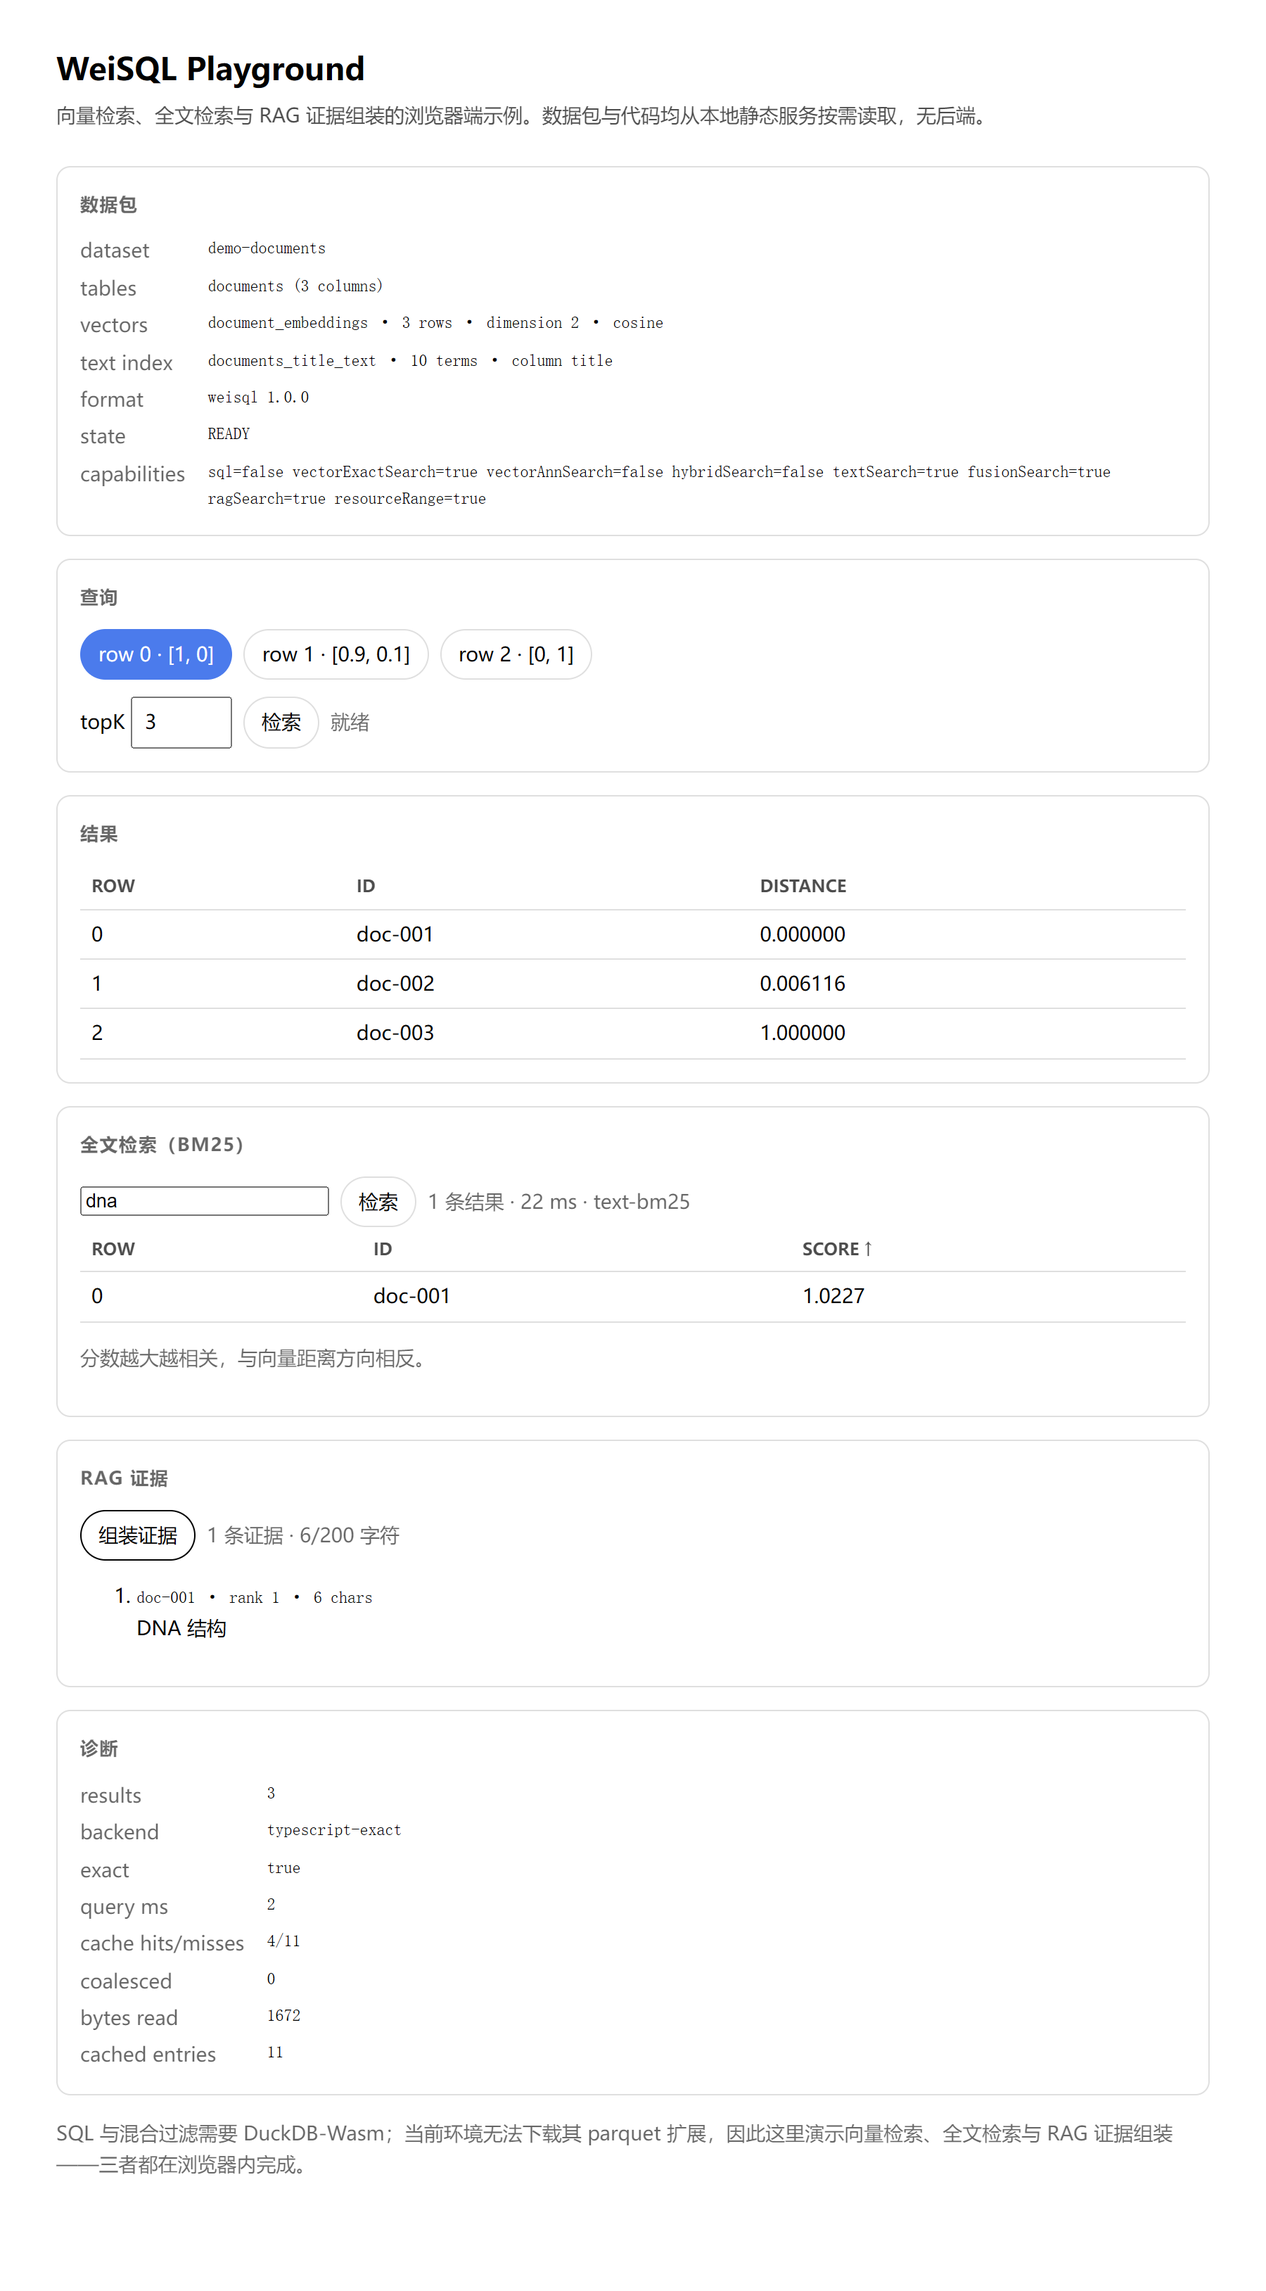
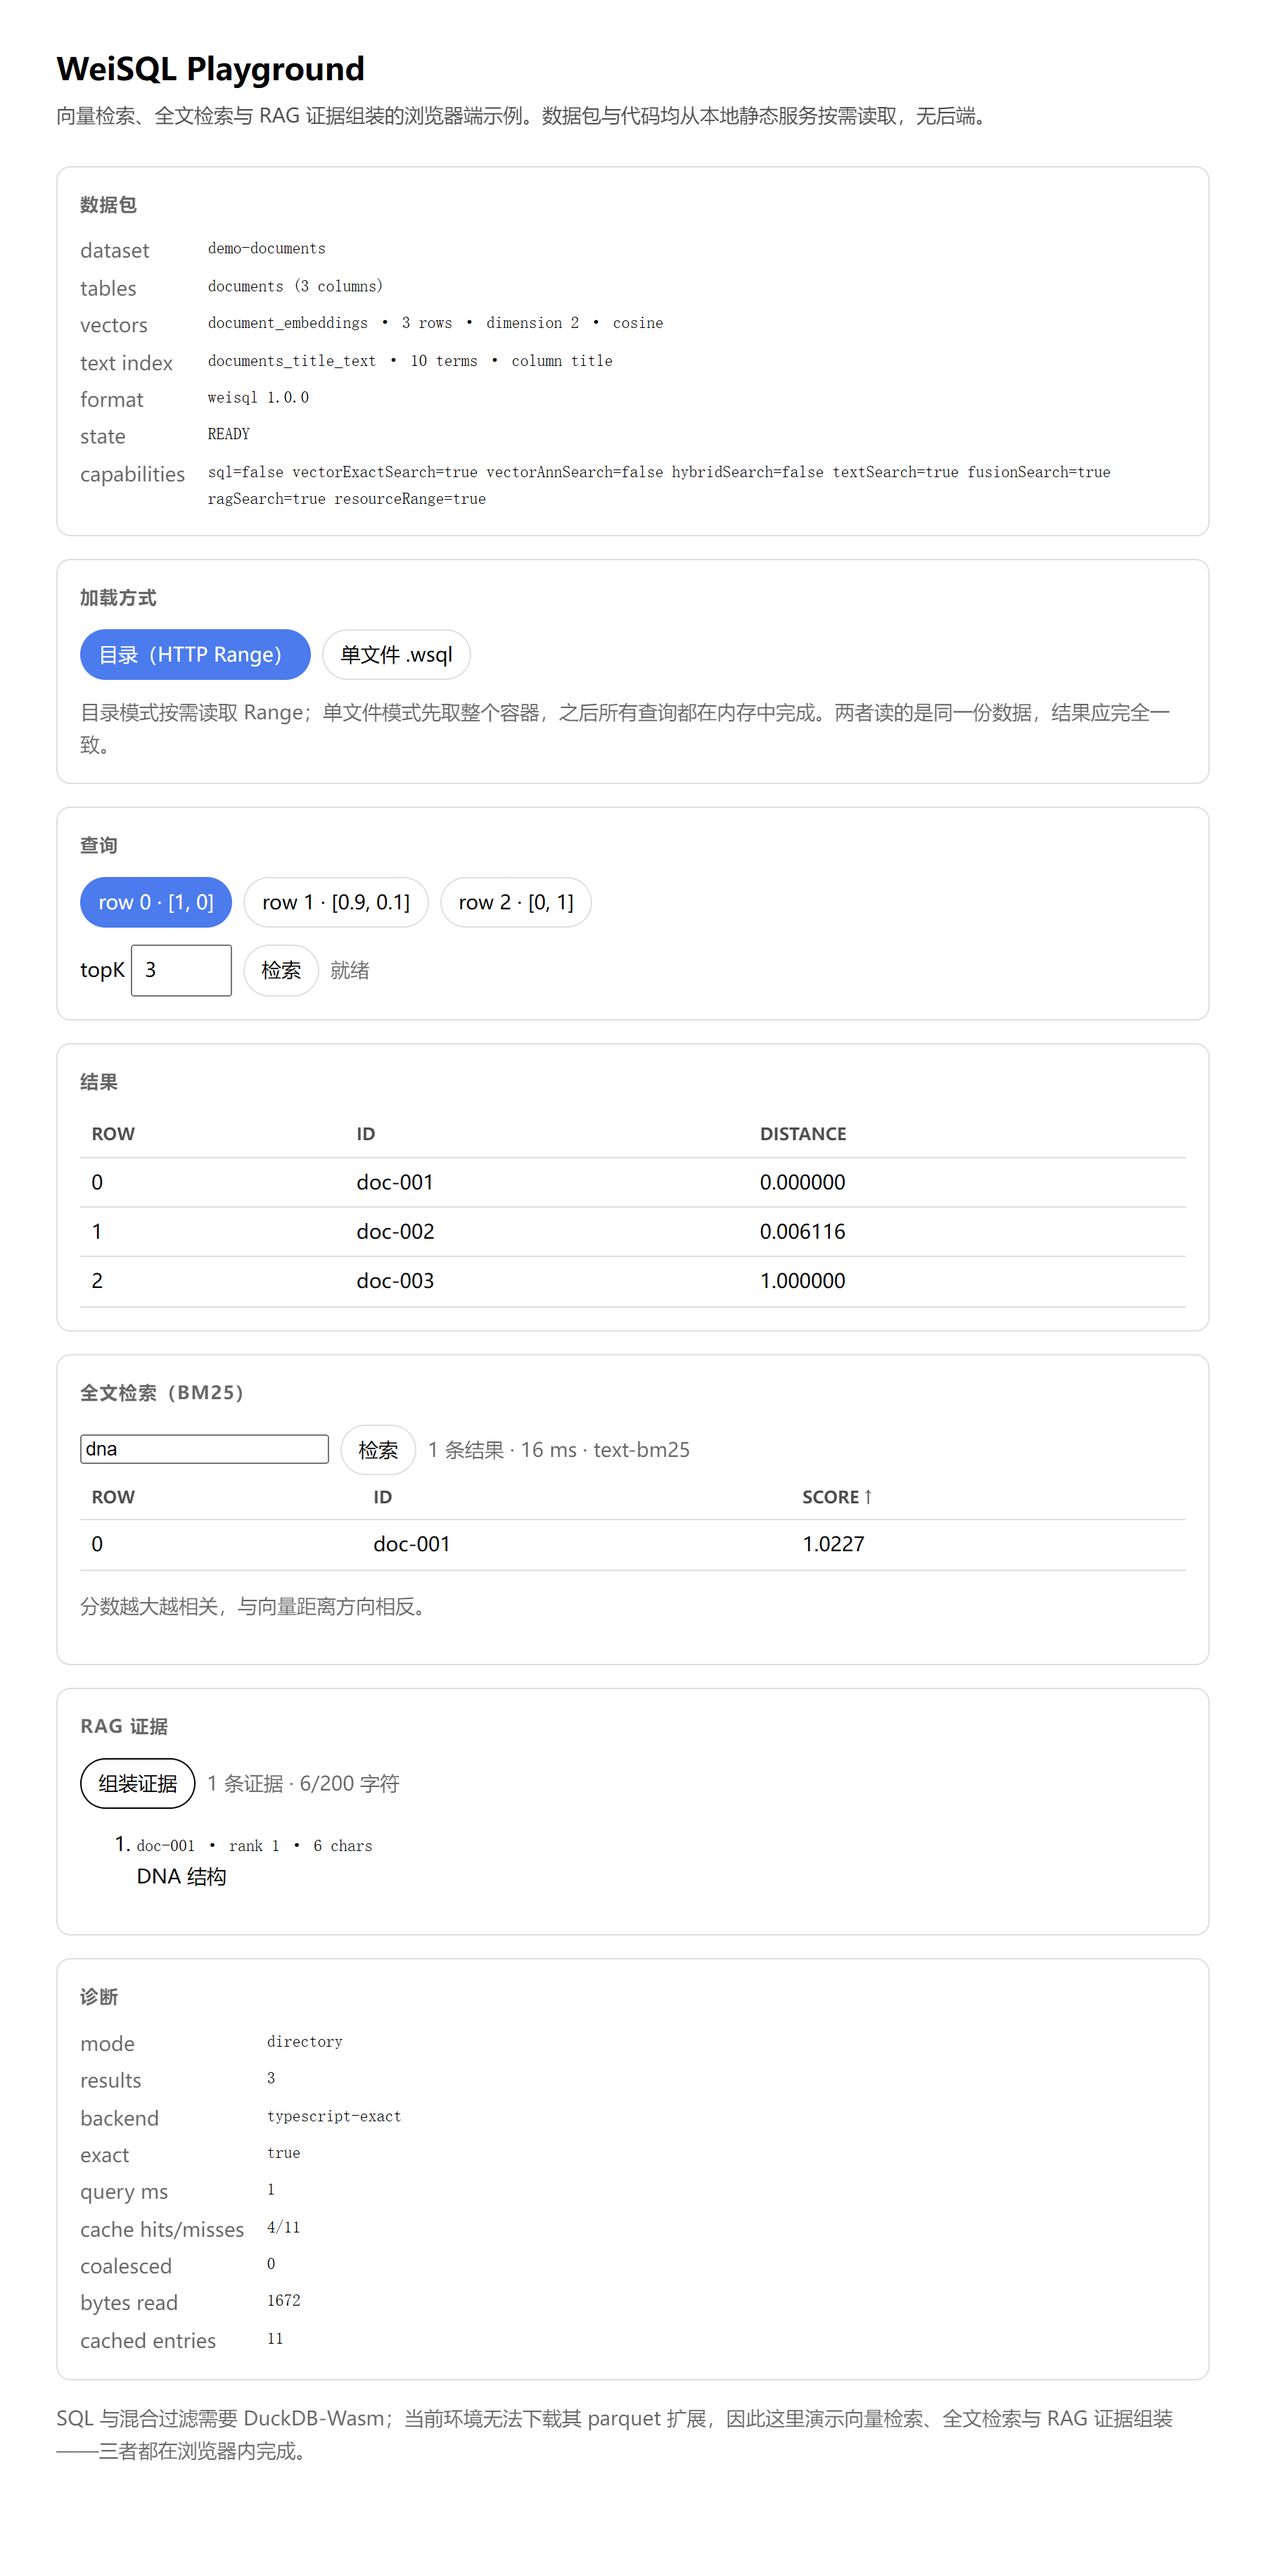
feat: switch the playground between directory and .wsql loading

diff --git a/examples/playground/app.js b/examples/playground/app.js
@@ -1,11 +1,12 @@
 import { CachedResourceReader } from "/sdk/cached-resource-reader.js";
+import { ContainerReader } from "/sdk/wsql-container.js";
 import { open } from "/sdk/database.js";
 import { HttpResourceReader } from "/sdk/http-resource-reader.js";
 
 const $ = id => document.getElementById(id);
 const setText = (id, value) => { $(id).textContent = value; };
 
-const state = { db: undefined, cache: undefined, manifest: undefined, collection: undefined, presets: [], query: undefined };
+const state = { db: undefined, reader: undefined, cache: undefined, manifest: undefined, collection: undefined, presets: [], query: undefined, mode: "directory", loadedBytes: undefined, textIndex: undefined };
 
 function renderDefinitionList(element, entries) {
   element.replaceChildren();
@@ -86,19 +87,25 @@ async function search() {
       body.append(row);
     }
     const first = hits[0];
-    const stats = state.cache.stats();
+    const stats = state.cache?.stats();
     renderDefinitionList($("diagnostics"), [
+      ["mode", state.mode],
       ["results", String(hits.length)],
       ["backend", String(first?.diagnostics?.backend ?? "-")],
       ["exact", String(first?.diagnostics?.exact ?? "-")],
       ["query ms", String(elapsed)],
-      ["cache hits/misses", `${stats.hits}/${stats.misses}`],
-      ["coalesced", String(stats.coalesced)],
-      ["bytes read", String(stats.bytesRead)],
-      ["cached entries", String(stats.entries)],
+      ...(state.loadedBytes === undefined ? [] : [["loaded bytes", String(state.loadedBytes)]]),
+      ...(stats === undefined ? [] : [["cache hits/misses", `${stats.hits}/${stats.misses}`], ["coalesced", String(stats.coalesced)], ["bytes read", String(stats.bytesRead)], ["cached entries", String(stats.entries)]]),
     ]);
     setText("status", `${hits.length} 条结果 · ${elapsed} ms`);
-    window.__PLAYGROUND_STATE = { ok: true, ids: hits.map(hit => hit.id), distances: hits.map(hit => Number(hit.distance.toFixed(6))) };
+    window.__PLAYGROUND_STATE = {
+      ...(window.__PLAYGROUND_STATE ?? {}),
+      ok: true,
+      mode: state.mode,
+      ...(state.loadedBytes === undefined ? {} : { loadedBytes: state.loadedBytes }),
+      ids: hits.map(hit => hit.id),
+      distances: hits.map(hit => Number(hit.distance.toFixed(6))),
+    };
   } catch (error) {
     setText("status", "失败");
     setText("error", String(error && error.message ? error.message : error));
@@ -176,53 +183,83 @@ async function assembleEvidence() {
   }
 }
 
-async function main() {
+async function readDirectory() {
   const base = new URL("/fixture/", location.href).href;
   const cache = new CachedResourceReader({
     reader: new HttpResourceReader({ baseUrl: base }),
     maxCacheBytes: 1024 * 1024,
     version: "playground",
   });
-  state.cache = cache;
-
   const manifest = await (await fetch(new URL("manifest.json", base))).json();
-  state.manifest = manifest;
   const db = await open({ manifest, resourceReader: cache, verifyChecksums: "all" });
-  state.db = db;
+  return { db, reader: cache, cache, manifest, mode: "directory", loadedBytes: undefined };
+}
 
-  const collection = manifest.vectorCollections[0];
-  state.collection = collection;
-  state.textIndex = manifest.textIndexes?.[0];
+/** Fetches the whole `.wsql` container once and serves everything from memory. */
+async function readContainer() {
+  const response = await fetch("/container.wsql");
+  if (!response.ok) throw new Error(`container.wsql returned ${response.status}`);
+  const bytes = new Uint8Array(await response.arrayBuffer());
+  const reader = new ContainerReader(bytes);
+  const manifest = JSON.parse(new TextDecoder().decode(await reader.read("manifest.json")));
+  const db = await open({ manifest, resourceReader: reader, verifyChecksums: "all" });
+  return { db, reader, cache: undefined, manifest, mode: "container", loadedBytes: bytes.byteLength };
+}
 
-  renderDefinitionList($("package-info"), [
-    ["dataset", manifest.datasetId],
-    ["tables", manifest.tables.map(table => `${table.name} (${table.columns.length} columns)`).join(", ")],
-    ["vectors", `${collection.name} · ${collection.count} rows · dimension ${collection.dimension} · ${collection.metric}`],
-    ["text index", state.textIndex === undefined ? "none" : `${state.textIndex.name} · ${state.textIndex.termCount} terms · column ${state.textIndex.column}`],
-    ["format", `${manifest.format} ${manifest.formatVersion}`],
-    ["state", db.state],
-    ["capabilities", Object.entries(db.capabilities()).map(([key, value]) => `${key}=${value}`).join(" ")],
-  ]);
+async function activate(mode) {
+  setText("error", "");
+  setText("status", "加载中…");
+  for (const id of ["mode-directory", "mode-container"]) $(id).disabled = true;
+  try {
+    if (state.db !== undefined) await state.db.close();
+    const loaded = mode === "container" ? await readContainer() : await readDirectory();
+    Object.assign(state, loaded);
+    state.collection = loaded.manifest.vectorCollections[0];
+    state.textIndex = loaded.manifest.textIndexes?.[0];
+    $("mode-directory").setAttribute("aria-pressed", String(mode === "directory"));
+    $("mode-container").setAttribute("aria-pressed", String(mode === "container"));
 
-  state.presets = await readPresets(cache, collection, 3);
-  state.query = state.presets[0];
-  renderPresets();
+    renderDefinitionList($("package-info"), [
+      ["dataset", loaded.manifest.datasetId],
+      ["tables", loaded.manifest.tables.map(table => `${table.name} (${table.columns.length} columns)`).join(", ")],
+      ["vectors", `${state.collection.name} · ${state.collection.count} rows · dimension ${state.collection.dimension} · ${state.collection.metric}`],
+      ["text index", state.textIndex === undefined ? "none" : `${state.textIndex.name} · ${state.textIndex.termCount} terms · column ${state.textIndex.column}`],
+      ["format", `${loaded.manifest.format} ${loaded.manifest.formatVersion}`],
+      ["state", loaded.db.state],
+      ["capabilities", Object.entries(loaded.db.capabilities()).map(([key, value]) => `${key}=${value}`).join(" ")],
+    ]);
 
-  $("search").addEventListener("click", () => void search());
-  await search();
+    state.presets = await readPresets(loaded.reader, state.collection, 3);
+    state.query = state.presets[0];
+    renderPresets();
 
-  if (state.textIndex === undefined) {
-    $("text-search").disabled = true;
-    $("rag").disabled = true;
-    setText("text-note", "此数据包未声明全文索引，无法演示 BM25 与 RAG。");
-  } else {
-    $("text-search").addEventListener("click", () => void textSearch());
-    $("rag").addEventListener("click", () => void assembleEvidence());
-    await textSearch();
+    $("text-search").disabled = state.textIndex === undefined;
+    $("rag").disabled = state.textIndex === undefined;
+    setText("text-note", state.textIndex === undefined
+      ? "此数据包未声明全文索引，无法演示 BM25 与 RAG。"
+      : "分数越大越相关，与向量距离方向相反。");
+
+    await search();
+    if (state.textIndex !== undefined) await textSearch();
+    window.__PLAYGROUND_STATE = { ...(window.__PLAYGROUND_STATE ?? {}), ok: true, mode: state.mode };
+    window.__PLAYGROUND_READY = true;
+    setText("status", "就绪");
+  } catch (error) {
+    setText("status", "加载失败");
+    setText("error", String(error && error.message ? error.message : error));
+    window.__PLAYGROUND_STATE = { ok: false, error: String(error) };
+  } finally {
+    for (const id of ["mode-directory", "mode-container"]) $(id).disabled = false;
   }
+}
 
-  window.__PLAYGROUND_READY = true;
-  setText("status", "就绪");
+async function main() {
+  $("mode-directory").addEventListener("click", () => void activate("directory"));
+  $("mode-container").addEventListener("click", () => void activate("container"));
+  $("search").addEventListener("click", () => void search());
+  $("text-search").addEventListener("click", () => void textSearch());
+  $("rag").addEventListener("click", () => void assembleEvidence());
+  await activate("directory");
 }
 
 main().catch(error => {

diff --git a/examples/playground/index.html b/examples/playground/index.html
@@ -41,6 +41,17 @@
       </section>
 
       <section>
+        <h2>加载方式</h2>
+        <div class="row">
+          <button id="mode-directory" type="button" aria-pressed="true">目录（HTTP Range）</button>
+          <button id="mode-container" type="button" aria-pressed="false">单文件 .wsql</button>
+        </div>
+        <p class="muted" style="margin:12px 0 0">
+          目录模式按需读取 Range；单文件模式先取整个容器，之后所有查询都在内存中完成。两者读的是同一份数据，结果应完全一致。
+        </p>
+      </section>
+
+      <section>
         <h2>查询</h2>
         <div class="row" id="presets" style="margin-bottom:12px"></div>
         <div class="row">

diff --git a/README.md b/README.md
@@ -268,12 +268,13 @@ npm run playground     # http://127.0.0.1:8099/playground/
 
 - 查询向量不是硬编码的——页面直接从 `vectors/*.f32` 读前 3 行作为预设，点选即检索；
 - 结果展示 `row` / `id` / `distance`，诊断区给出后端、`exact`、耗时与缓存命中统计；
+- **加载方式切换**：同一个数据包可在「目录（HTTP Range 按需读取）」与「单文件 `.wsql`」之间切换，结果一致，但前者按需读、后者先整包取回；
 - **全文检索**：输入 `dna` 或 `细胞` 即可看到 BM25 排序与分数（分数越大越相关）；
 - **RAG 证据**：一次点击在字符预算内组装证据，展示 id、名次、字符数与是否截断；
 - 启动时会把 fixture 复制到临时目录并生成文本索引，仓库里不保留派生文件；
 - SQL 与混合过滤在此不可用，因为浏览器端需要 DuckDB-Wasm（扩展下载受阻，见 [ADR-020](docs/DECISION_LOG.md)）。
 
-自动化验收：`npm run probe:playground` 在真实 Chromium 中打开页面，断言初始结果为 `doc-001..doc-003`，点击第三个预设后 `doc-003` 排到第一，再断言全文检索命中 `doc-001` 且 RAG 证据包含正文。
+自动化验收：`npm run probe:playground` 在真实 Chromium 中打开页面，断言初始结果为 `doc-001..doc-003`，点击第三个预设后 `doc-003` 排到第一，再断言全文检索命中 `doc-001`、RAG 证据包含正文，最后切换到 `.wsql` 模式并断言结果与字节数一致。
 
 ![WeiSQL Playground](docs/assets/playground.png)
 

diff --git a/CHANGELOG.md b/CHANGELOG.md
@@ -61,7 +61,8 @@ Nothing has been published to a registry yet, so every entry below is unreleased
   Windows, plus fixture reproducibility, derived indexes and container packing.
 - Browser probe, playground example, cross-environment parity check.
 - Playground now demonstrates full-text search and RAG evidence against a package
-  it builds at start-up; the probe asserts both.
+  it builds at start-up, and can switch between directory and `.wsql` loading;
+  the probe asserts all three.
 - Parity probe extended to full-text, RAG evidence and the `.wsql` container,
   against a package it builds at run time.
 - Benchmark harness with exact and ANN (`--ann`) modes.
